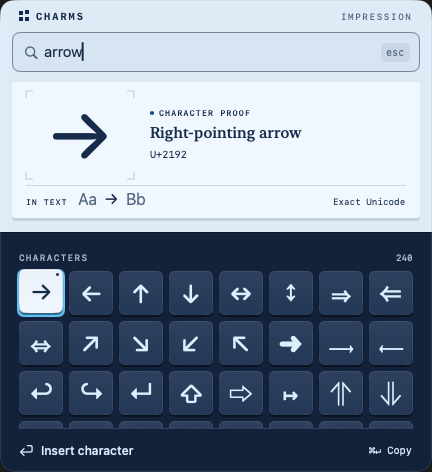
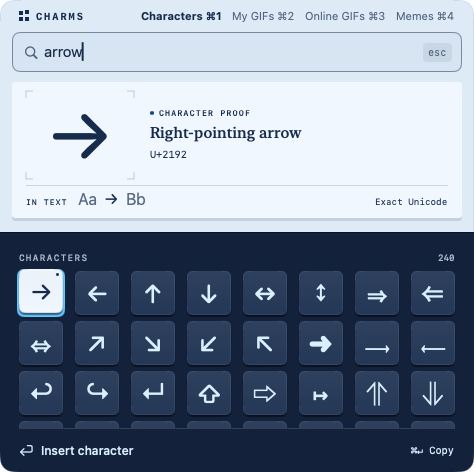
Widen the picker to keep source shortcuts on one line (#91)
Give the four source buttons their intrinsic width and widen the panel
by 42 points. Distribute that space between the grid columns so the
outside insets, cell size and panel height stay consistent.

Check the header in each selected mode through Accessibility, update
the mouse coordinates and refresh the native development captures.

diff --git a/Sources/CharmsHarness/Inspect.swift b/Sources/CharmsHarness/Inspect.swift
@@ -115,6 +115,27 @@ enum Inspect {
         return result
     }
 
+    static func sourceHeader(in pid: pid_t) -> [String: Any] {
+        let app = AXUIElementCreateApplication(pid)
+        var heights: [CGFloat] = []
+        var prompt = ""
+        func visit(_ element: AXUIElement) {
+            let role = copy(element, kAXRoleAttribute) as? String
+            if role == kAXTextFieldRole, let placeholder = copy(element, kAXPlaceholderValueAttribute) as? String {
+                prompt = placeholder
+            }
+            if role == kAXButtonRole,
+               let hint = copy(element, kAXHelpAttribute) as? String, hint.hasPrefix("Select with Command-"),
+               let size = copy(element, kAXSizeAttribute), CFGetTypeID(size) == AXValueGetTypeID() {
+                var bounds = CGSize.zero
+                if AXValueGetValue(size as! AXValue, .cgSize, &bounds) { heights.append(bounds.height) }
+            }
+            for child in copy(element, kAXChildrenAttribute) as? [AXUIElement] ?? [] { visit(child) }
+        }
+        for window in copy(app, kAXWindowsAttribute) as? [AXUIElement] ?? [] { visit(window) }
+        return ["heights": heights, "prompt": prompt]
+    }
+
     private static func copy(_ element: AXUIElement, _ attribute: String) -> CFTypeRef? {
         var value: CFTypeRef?
         guard AXUIElementCopyAttributeValue(element, attribute as CFString, &value) == .success else { return nil }

diff --git a/Sources/Charms/Picker/PickerViews.swift b/Sources/Charms/Picker/PickerViews.swift
@@ -20,7 +20,7 @@ struct PickerGridView: View {
     @Namespace private var selectionSaddle
 
     private var columns: [GridItem] {
-        Array(repeating: GridItem(.fixed(PickerViewModel.cellSize), spacing: PickerViewModel.cellSpacing), count: PickerViewModel.columns)
+        Array(repeating: GridItem(.fixed(PickerViewModel.cellSize), spacing: PickerViewModel.columnSpacing), count: PickerViewModel.columns)
     }
 
     var body: some View {
@@ -72,7 +72,7 @@ struct PickerGridView: View {
                     .foregroundStyle(palette.chalk.opacity(contrast == .increased ? 1 : 0.75))
                     .frame(height: PickerViewModel.cellSize, alignment: .leading)
             } else {
-                LazyVGrid(columns: columns, alignment: .leading, spacing: PickerViewModel.cellSpacing) {
+                LazyVGrid(columns: columns, alignment: .leading, spacing: PickerViewModel.rowSpacing) {
                     ForEach(Array(section.items.enumerated()), id: \.offset) { itemIndex, item in
                         cell(item, at: GridPosition(section: sectionIndex, index: itemIndex))
                     }

diff --git a/Sources/CharmsHarness/Output.swift b/Sources/CharmsHarness/Output.swift
@@ -50,6 +50,7 @@ enum Output {
           focused                  The focused element of the frontmost application.
           frontmost                The frontmost application.
           windows --pid N          That process's windows on screen, front to back.
+          source-header --pid N    The source prompt and heights of its mode buttons.
           displays                 The displays and the pointer position.
           pasteboard [--set S | --compare-gif PATH]     Inspect the general pasteboard.
 

diff --git a/Sources/Charms/Picker/PickerPanel.swift b/Sources/Charms/Picker/PickerPanel.swift
@@ -12,7 +12,7 @@ import SwiftUI
 /// field has keyboard focus again within a few milliseconds. That is what
 /// lets a character go back to where the user was typing.
 final class PickerPanel: NSPanel {
-    static let size = CGSize(width: 432, height: 472)
+    static let size = CGSize(width: 474, height: 472)
 
     /// Keys the search field never sees as commands: Command-Return,
     /// Command-D and Command-C. Returns true when the key was used.

diff --git a/Sources/Charms/Picker/PickerViewModel.swift b/Sources/Charms/Picker/PickerViewModel.swift
@@ -20,7 +20,8 @@ struct PickerMenuAction: Identifiable {
 final class PickerViewModel: ObservableObject {
     static let columns = 8
     static let cellSize: CGFloat = 44
-    static let cellSpacing: CGFloat = 6
+    static let columnSpacing: CGFloat = 12
+    static let rowSpacing: CGFloat = 6
     static let padding: CGFloat = 19
     static let mastheadHeight: CGFloat = 32
     static let searchHeight: CGFloat = 46

diff --git a/Sources/Charms/Picker/PickerStyle.swift b/Sources/Charms/Picker/PickerStyle.swift
@@ -129,6 +129,7 @@ struct PickerSurfaceView: View {
                                 .accessibilityAddTraits(source == model.source ? .isSelected : [])
                         }
                     }
+                    .fixedSize(horizontal: true, vertical: false)
                 } else {
                     Text("IMPRESSION")
                         .font(.system(size: 9, weight: .medium, design: .monospaced))

diff --git a/Sources/CharmsHarness/main.swift b/Sources/CharmsHarness/main.swift
@@ -69,6 +69,10 @@ case "windows":
     guard let processID = arguments.number("pid") else { Output.usage() }
     Output.emit(Inspect.windows(ownedBy: Int(processID)))
 
+case "source-header":
+    guard let processID = arguments.number("pid") else { Output.usage() }
+    Output.emit(Inspect.sourceHeader(in: pid_t(processID)))
+
 case "displays":
     Output.emit(Inspect.displays())
 

diff --git a/PLAN.md b/PLAN.md
@@ -128,7 +128,7 @@ The Impression picker concentrates expression on choosing and proofing a charact
 
 The diagram is structural; native font metrics determine final spacing.
 
-- The picker is 432 by 472 points with eight 44-point cells, 6-point gaps and 19-point tray insets. The panel stays fixed while searching. Names and the complete scalar sequence live beside the large proof; a second specimen uses 16-point text. The “Aa” and “Bb” are fixed examples, never source-document text.
+- The picker is 474 by 472 points with eight 44-point cells per row, 12-point column gaps, 6-point row gaps and 19-point tray insets. The panel stays fixed while searching. Names and the complete scalar sequence live beside the large proof; a second specimen uses 16-point text. The “Aa” and “Bb” are fixed examples, never source-document text.
 - Surface the Copy action in the footer (for example `⌘↵ Copy`) so the explicit copy path is discoverable without reading the keyboard table.
 - Larger-text reflow remains a release requirement and is not implemented by this fixed-size prototype. Long names have a tooltip and accessibility label; long scalar sequences have horizontal scrolling with a bidirectional affordance and an unabridged accessibility value. See the prototype guide for validation gaps.
 - Empty search shows a compact favourites section and up to two rows of recents. Seed a small useful favourites set only on first launch.

diff --git a/docs/design/prototype.md b/docs/design/prototype.md
@@ -106,8 +106,9 @@ selection under hover, empty-result recovery, exact insertion without preview
 guides, a non-actionable proof, and keyboard access to character actions. The
 last test exposed an existing macOS 27 routing bug: Control-Return reached the
 native query menu instead. It was observed failing before the panel-level
-key-equivalent fix and passing afterwards. The mouse coordinates in the
-script follow the new 432 by 472 point panel and its section heading.
+key-equivalent fix and passing afterwards. The original prototype measured
+432 by 472 points. The current four-mode picker is 474 points wide. The
+mouse scenarios target the second cell in the wider tray.
 
 The completed theme build passes 354 unit tests and all 33 real-input
 scenarios. Six theme/appearance additions each repeat navigation, Escape,

diff --git a/docs/compatibility.md b/docs/compatibility.md
@@ -58,6 +58,12 @@ In the signed build on the same Mac, the header showed **Characters ⌘1**,
 Accessibility exposed the source names and their individual Command shortcuts.
 Opening the character-only picker with `::` hid the source row.
 
+With four modes, the 432-point picker wrapped a source label to two lines
+(28 points high) on macOS 27.0.1. In the signed 474 × 472 point picker,
+all four buttons measured 14 points high and shared the same top edge with
+each mode selected. Run `scripts/e2e.sh source_header click_cell
+hover_keeps_selection placement` to check the header, grid and caret placement.
+
 ### Meme generation
 
 On the same Mac with Apple Intelligence enabled, ⌘4 opened Memes. The

diff --git a/AGENTS.md b/AGENTS.md
@@ -85,7 +85,7 @@ not a mockup or a real document.
 - The session state table (`SessionMachine`) is the single authority on what
   the picker may do next. The app reports events to it and performs the
   effects it returns; it does not keep a second notion of state.
-- Test source shortcuts with `scripts/e2e.sh gif_sources gif_copy gif_source_cycle`.
+- Test source shortcuts and header layout with `scripts/e2e.sh gif_sources gif_copy gif_source_cycle source_header`.
   Preserve source switching only in shortcut and menu-bar sessions, native
   marked-text handling, and the fresh query when entering Online GIFs. Show
   each source’s Command-number shortcut beside its name on a single row.

diff --git a/README.md b/README.md
@@ -21,7 +21,7 @@ The specimen is demonstration text, not a reading of your document. The name
 and exact Unicode sequence sit beside the proof; guides for spaces and
 combining marks are labelled and never inserted.
 
-![The Impression picker, searching the real character catalogue for arrows](docs/design/impression-arrows.png)
+![The Impression picker showing arrow results beneath the four mode buttons and their keyboard shortcuts](docs/design/impression-arrows.png)
 
 The raised selection and short stamping response give choosing a character
 some weight, without adding a step or delaying insertion. Hover never changes
